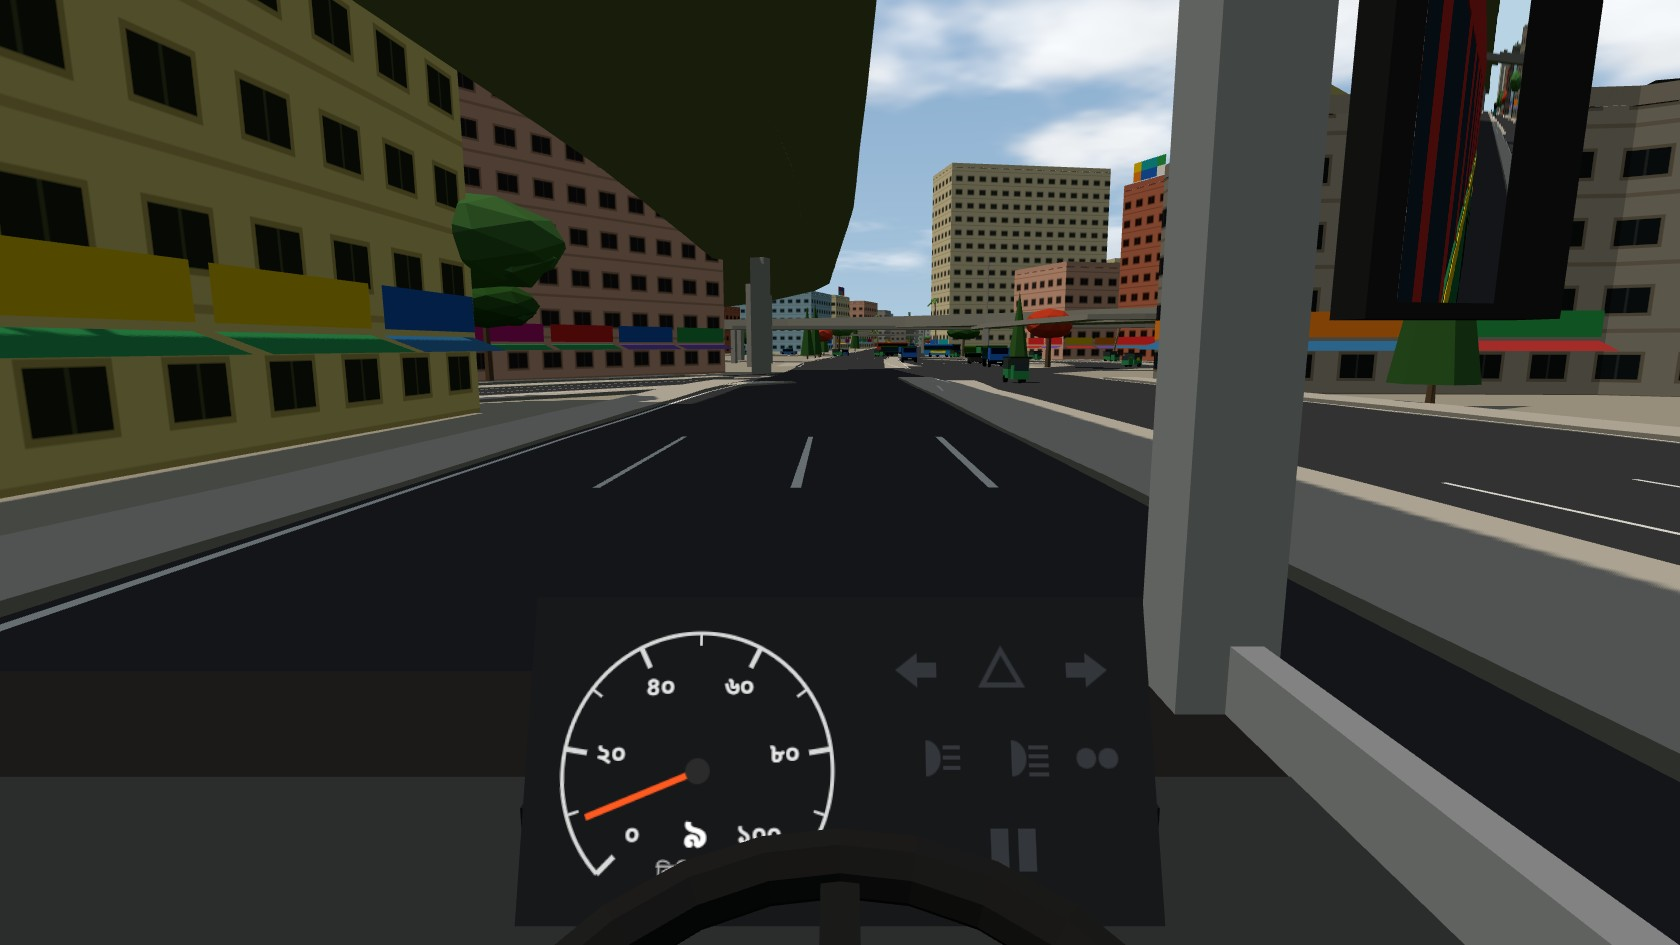
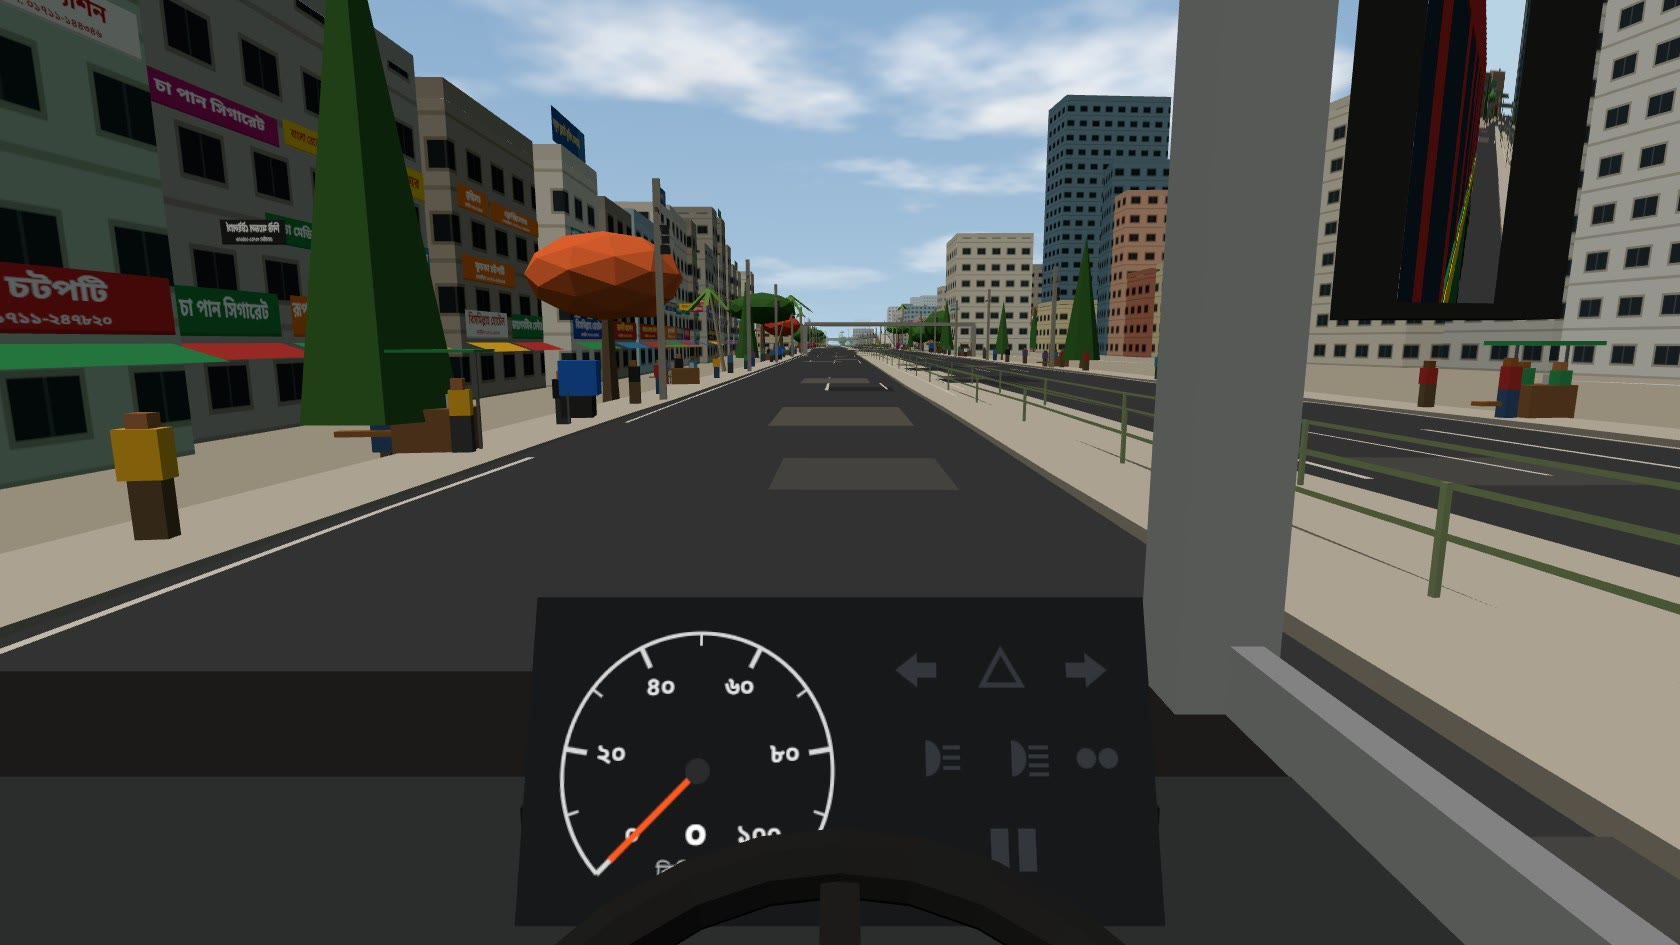
chore: release v1.3.0, the Dhaka corridor polish
Bumps the version, adds the Bangla and English changelog entry and the
release picture, retakes the README's Dhaka hero and cab shots, and marks
polish spec sections 2-4 as built.

diff --git a/src/config/changelog.ts b/src/config/changelog.ts
@@ -11,6 +11,23 @@ export interface Release {
 
 export const CHANGELOG: Release[] = [
   {
+    version: '1.3.0',
+    date: '2026-11-01',
+    image: '1.3.0.jpg',
+    bn: [
+      'ঢাকার ভবনগুলো এখন আসল উচ্চতায়: বনানী আর মহাখালীতে উঁচু টাওয়ার, পাশের রাস্তায় নিচু দালান।',
+      'রাস্তা জুড়ে প্রাণ: বাংলা দোকানের সাইনবোর্ড, বিলবোর্ড, বিদ্যুতের তারের জট, চায়ের দোকান, রিকশা আর মানুষ।',
+      'কুড়িল আর খিলক্ষেতের রাস্তার পাশ এখন দোকানপাটে ভরা।',
+      'ধুলোমাখা দেয়াল, কাচ আর টাইলসের টাওয়ার, তালি দেওয়া রাস্তা আর মাঝের রেলিং।',
+    ],
+    en: [
+      'Dhaka’s buildings now stand at their real heights: towers at Banani and Mohakhali, low blocks on the side streets.',
+      'Street life all along the road: Bangla shop signs, billboards, tangled overhead wires, tea stalls, rickshaws and people.',
+      'Kuril and Khilkhet are lined with shops on both sides of the road.',
+      'Dusty walls, glass and tiled towers, patched asphalt and railings down the median.',
+    ],
+  },
+  {
     version: '1.2.2',
     date: '2026-10-31',
     image: '1.2.2.jpg',

diff --git a/README.md b/README.md
@@ -8,7 +8,7 @@ A relaxing bus, metro and plane simulator set on the real streets of Dhaka, its 
 
 **[▶ Play now at travel-sim.pages.dev](https://travel-sim.pages.dev)**
 
-![A Dhaka city bus under the Farmgate flyover at midday](docs/images/hero-dhaka.jpg)
+![A Dhaka city bus near Farmgate at midday, Bangla shop signs stacked up the buildings](docs/images/hero-dhaka.jpg)
 
 </div>
 
@@ -22,8 +22,8 @@ Take a city bus up the Farmgate → Airport corridor in Dhaka, or wind up the Th
 
 | | |
 |:-:|:-:|
-| ![Driver's cab view on a Dhaka road, Bangla speedometer](docs/images/cab-dhaka.jpg) | ![The bus on the forested hill road to Chimbuk](docs/images/bandarban-hills.jpg) |
-| *The cab is the default view: Bangla dashboard, indicators, mirrors* | *Bandarban: hairpins, bamboo and forest on the climb to Chimbuk* |
+| ![Driver's cab view at Kakoli: Bangla shop signs, towers, tea stalls and the median railing](docs/images/cab-dhaka.jpg) | ![The bus on the forested hill road to Chimbuk](docs/images/bandarban-hills.jpg) |
+| *The cab is the default view: Bangla dashboard, mirrors, and Kakoli's shops and towers outside* | *Bandarban: hairpins, bamboo and forest on the climb to Chimbuk* |
 
 ### ✈ Plane: fly free or take a Challenge
 
@@ -50,6 +50,7 @@ Seven cameras: the cab, chasing, on the platform, alongside, from the air, a pas
 ## A living Dhaka
 
 - **Real places.** Roads, flyovers, the Elevated Expressway, railways and level crossings come from OpenStreetMap, the terrain from Copernicus GLO-30, and building heights from Google Open Buildings. Over 20 landmarks are hand-modelled, among them the Farmgate metro station, Jahangir Gate, Novo Theatre, Airport Terminal 3, Shoilo Propat and Chimbuk.
+- **Real heights, real street life** *(new in 1.3.0)*. Buildings stand at their real heights, so Banani and Mohakhali have their towers. Shopfronts carry painted Bangla signboards stacked up the walls, with billboards, tangled overhead wires, tea stalls, parked rickshaws and people on the footpaths, and the roads are patched and dusty.
 - **Dhaka traffic.** Buses, green CNGs, cars, motorbikes, painted trucks and rickshaws follow the lanes, change lanes, honk, and stop for traffic police at the big junctions. City buses carry Bangla company names, route boards and "ঢাকা মেট্রো" plates.
 - **Drivable flyovers.** Ramps climb at real flyover grades; take the bus up and along the deck.
 - **Trains.** Bangladesh Railway trains and Dhaka Metro sets run on the real lines; crossing booms come down as they pass.
@@ -130,7 +131,7 @@ The routes you've driven light up on the map, zoomed-in places name their landma
 |:-:|:-:|
 | ![The What's new card shown after an update](docs/images/whats-new.jpg) | ![The classic menu cards: Bus, Plane and Metro](docs/images/menu.jpg) |
 
-**Current version: 1.2.2**: the Bandarban bus keeps to the Thanchi Road all the way, Chimbuk's summit complex stands where it really is, and the hill road loses its yellow centre line. 1.2.1 added gamepad control for the metro, the passport card and landmark names on the map; 1.2.0 brought the map menu; 1.1.0 added Metro Mode on MRT Line 6.
+**Current version: 1.3.0**: Dhaka at its real heights, with Bangla shop signs, wires, stalls and people along the road, a built-up Kuril and Khilkhet, and weathered streets. 1.2.2 kept the Bandarban bus on the Thanchi Road and moved Chimbuk's summit complex to where it really is; 1.2.1 added gamepad control for the metro, the passport card and landmark names on the map; 1.2.0 brought the map menu; 1.1.0 added Metro Mode on MRT Line 6.
 
 ## Build it yourself
 

diff --git a/docs/polish-spec.md b/docs/polish-spec.md
@@ -20,7 +20,7 @@ This spec makes the places already in the game faithful to the real ones: the Dh
 - **Every release** bumps `package.json`, adds a Bangla and English entry to `src/config/changelog.ts`, retakes the README screenshots, and is checked at 30 fps on a Helio G99 / Snapdragon 680-class phone (§7).
 - **Voice recordings don't gate any release.** The Helper call-outs and the Line 6 announcements ship in the first release after their files arrive ([Record the Helper call-outs and Line 6 announcements](wayfinder/polish/tickets/007-record-voices.md)). Wiring them in needs a voice recipe in `scripts/audio/build.ts`: trim the silence, normalise loudness, and write mono AAC to `public/audio/voice/`.
 
-## 2. Real building heights (v1.3, every Region and both Flight Zones)
+## 2. Real building heights (v1.3, every Region and both Flight Zones; built 2026-11-01)
 
 [Find how to get real building heights](wayfinder/polish/tickets/001-get-real-building-heights.md), [Spot-check the Open Buildings heights](wayfinder/polish/tickets/008-spot-check-building-heights.md), [research](research/building-heights.md)
 
@@ -38,7 +38,7 @@ This spec makes the places already in the game faithful to the real ones: the Dh
 - **Bandarban:** cap anything more than about 2 km from the town centre at 10 m.
 - **Credit** in the credits screen and README: Google Open Buildings 2.5D Temporal, CC BY 4.0. It contains modified Copernicus Sentinel data (2016–2023) processed by ESA; cite Sirko et al. 2023.
 
-## 3. The street-life kit (built in v1.3, reused in v1.4 and v1.5)
+## 3. The street-life kit (built in v1.3, reused in v1.4 and v1.5; built 2026-11-01 for Dhaka)
 
 [Choose how street life is made](wayfinder/polish/tickets/009-choose-street-life-approach.md), [prototype](../prototypes/street-life/PROTOTYPE-street-life.html)
 
@@ -57,7 +57,9 @@ This spec makes the places already in the game faithful to the real ones: the Dh
 - **Density C (medium):** 2 floors, a quarter of the frontages, 6 wires, a stall every ~45 m, about 35 people and 4 rickshaws per 200 m, and billboards on 25% of buildings.
 - **Where each density applies:** D on commercial stretches (OSM shop or commercial tagging along the frontage) and C elsewhere on the Dhaka corridor. C along Line 6. Bandarban gets only stalls and hand-painted roadside signs: no wires and no stacked boards.
 
-## 4. Dhaka bus corridor (v1.3)
+## 4. Dhaka bus corridor (v1.3, built 2026-11-01)
+
+As built: the bake code is `scripts/bake/heights.ts`, `streetlife.ts` and `infill.ts`; Kuril and Khilkhet got 343 infill lots (km 8.6–11) because OSM lacks the roadside shophouses there; the sign atlas is painted in the browser (`src/render/signAtlas.ts`), so it adds nothing to the download. Dhaka's Region is 28 MB.
 
 [Rank the fidelity gaps](wayfinder/polish/tickets/006-rank-fidelity-gaps.md), [comparison shots](images/polish/README.md)
 

diff --git a/SPEC.md b/SPEC.md
@@ -283,7 +283,7 @@ A **hero** landmark is ≤ 8k triangles and recognisable at a glance. A **simple
 | Bandarban Flight Zone | Buddha Dhatu Jadi | Nilgiri · Nilachal · Meghla hanging bridge · Sangu river boats |
 
 - **Making them:** the agent builds landmarks as **scripted low-poly models from photo references**, for the user to review. The user touches up hero landmarks in Blender only if they need it.
-- **As built (M10):** 22 scripted models in `src/landmarks/models.ts` (100–940 triangles each, far under budget), placed from `src/shared/landmarks.ts`; the bakes clear OSM buildings off each footprint and record ground heights, and in Flight Mode each landmark is solid. Route landmarks also appear in their Flight Zone. Not modelled: the Mohakhali and Kuril flyovers (baked from OSM as elevated decks) and the Banani/Kakoli skyline (it comes with the building-heights work). Jahangir Gate spans the cantonment road beside the Route, as in OSM, so the bus passes it rather than under it. The generic CC bridge, boat and waterfall models were not needed.
+- **As built (M10):** 22 scripted models in `src/landmarks/models.ts` (100–940 triangles each, far under budget), placed from `src/shared/landmarks.ts`; the bakes clear OSM buildings off each footprint and record ground heights, and in Flight Mode each landmark is solid. Route landmarks also appear in their Flight Zone. Not modelled: the Mohakhali and Kuril flyovers (baked from OSM as elevated decks) and the Banani/Kakoli skyline, which comes from real building heights since v1.3 ([polish spec](docs/polish-spec.md)). Jahangir Gate spans the cantonment road beside the Route, as in OSM, so the bus passes it rather than under it. The generic CC bridge, boat and waterfall models were not needed.
 - **Free models:** none exist for the landmarks themselves. Generic CC models are used for the Meghla bridge, Sangu boats and Shoilo Propat waterfall.
 - **Names and placement:** local names throughout. Landmarks that OSM doesn't name are hand-placed at the research coordinates.
 
